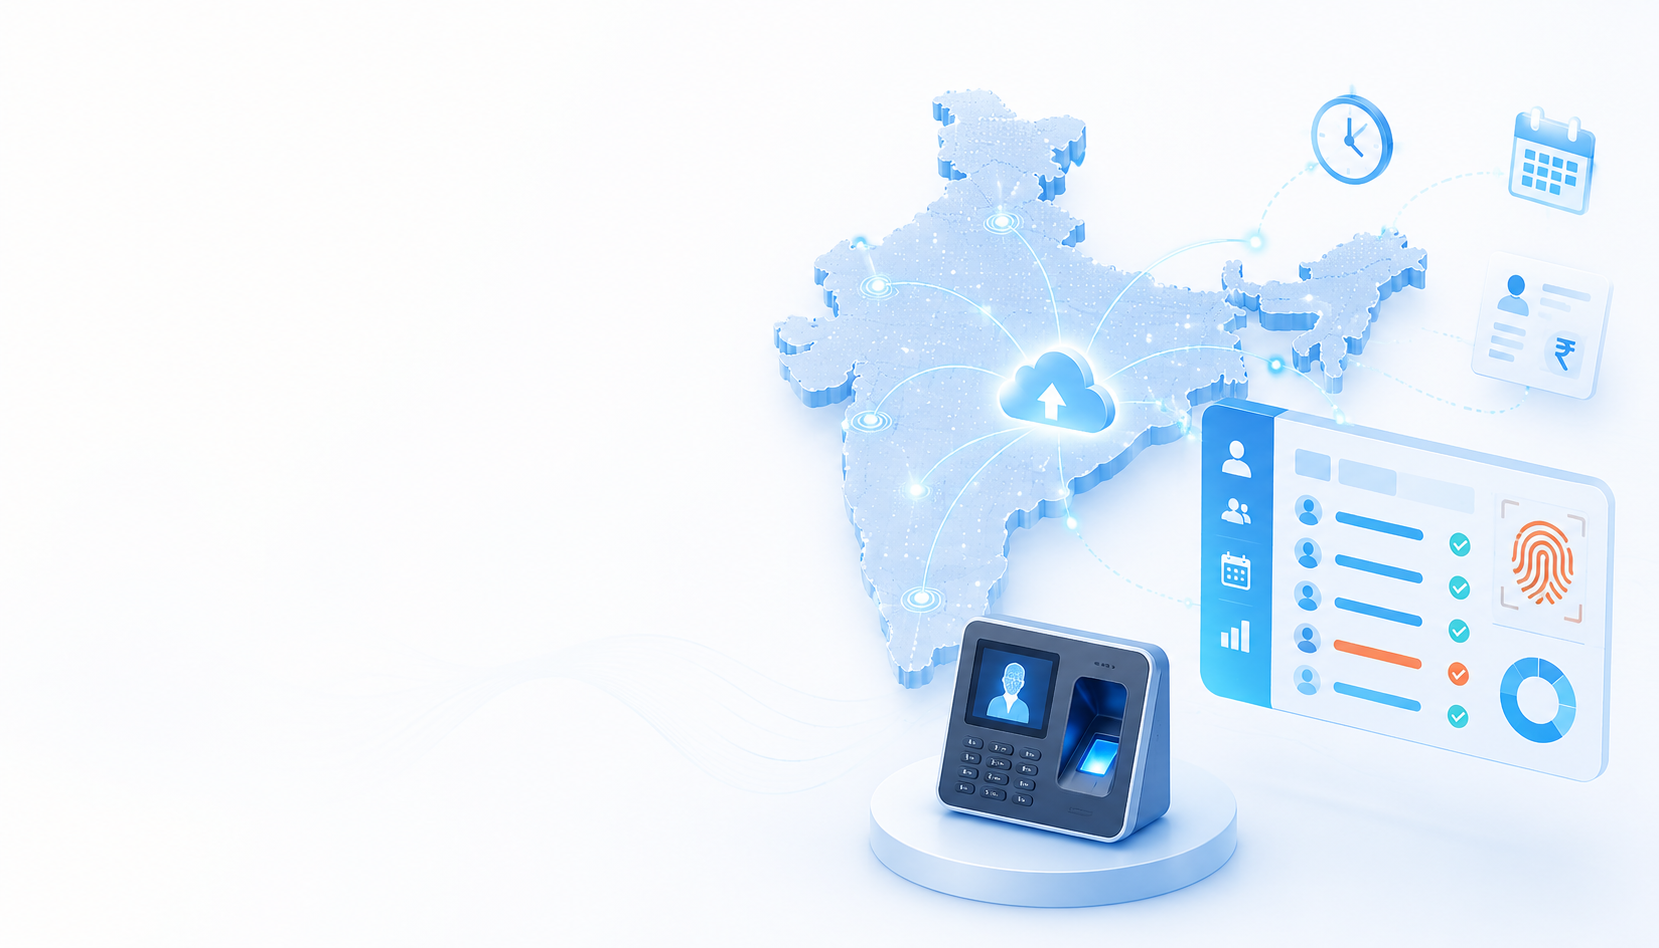
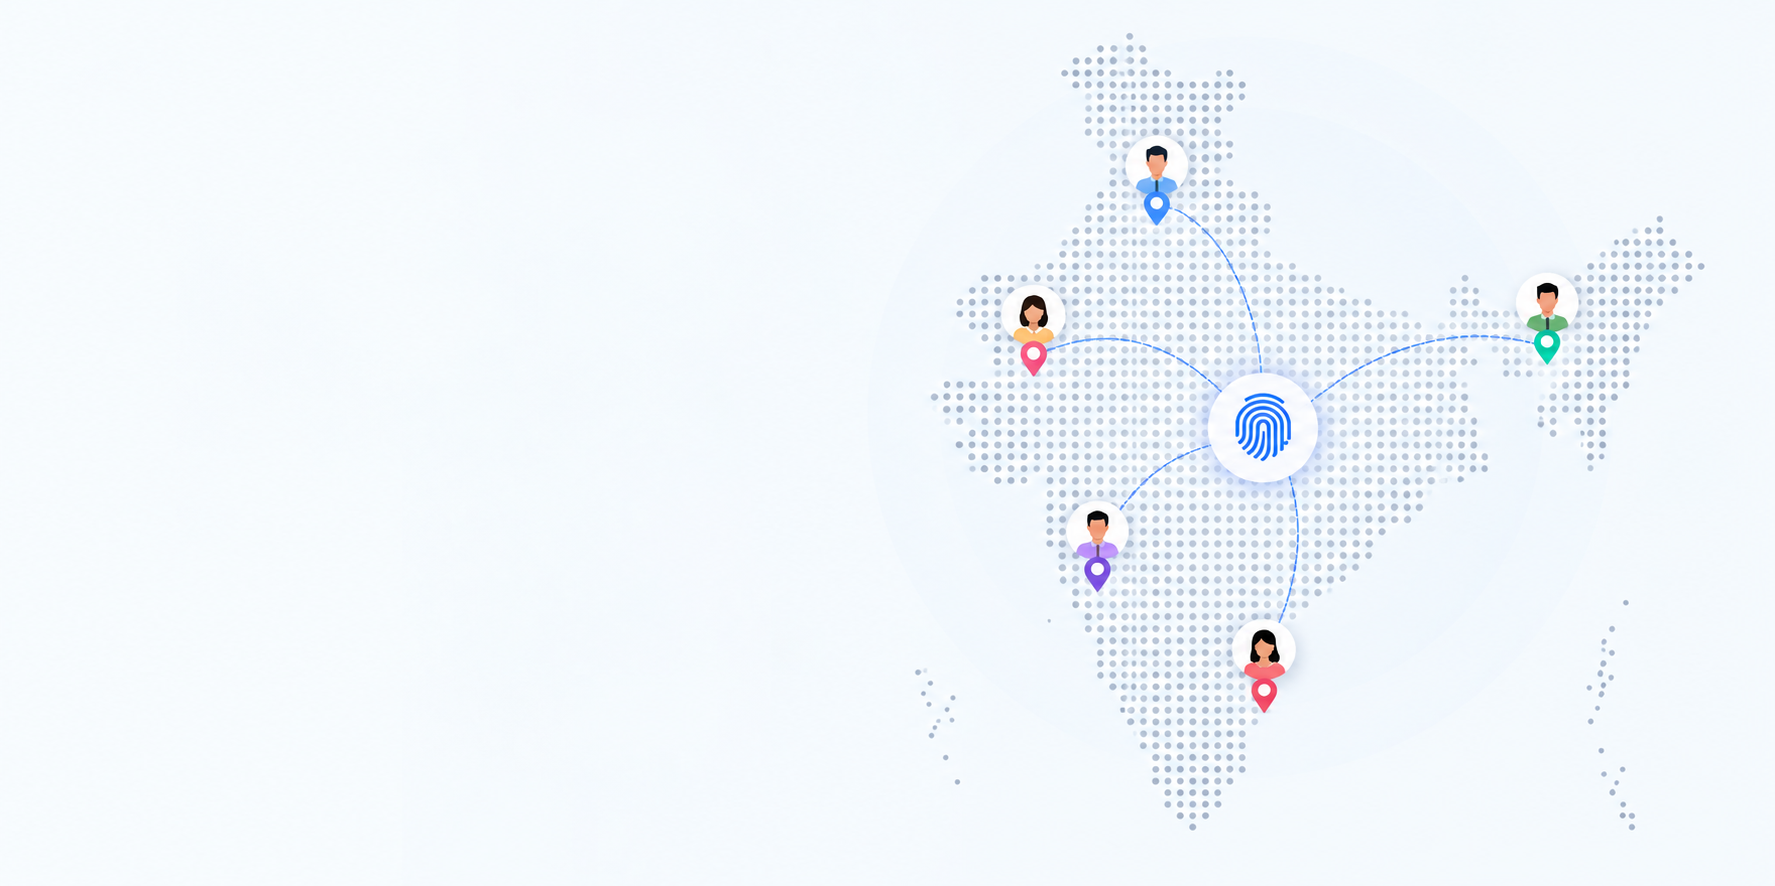
Fix Spine badge placement, footer sync, core solutions count, and cloud service images
- Move Spine Gold Partner badge above heading on spine-asset.html and spine-payroll-hrms.html
- Sync footer markup/content on customize-solutions.html (WhatsApp number, HRMS wording) to match rest of site
- Swap light logo reference to dark logo on cloud-server.html
- Update About page Core Solutions counter from 5 to 6 to match current core offerings
- Add new cloud services business images, update biometrics hero image
- Ignore *.zip backup archives

Changed region(s): [[0.4611, 0.0305, 0.9837, 0.9752], [0.7685, 0.0914, 0.8608, 0.2133]]

diff --git a/techwind/landing/customize-solutions.html b/techwind/landing/customize-solutions.html
@@ -367,7 +367,7 @@
         </section>
         </div><!--end site-content-->
 
-        <!-- Footer Start -->
+     <!-- Footer Start -->
         <footer id="site-footer" class="site-footer-fixed bg-slate-900 dark:bg-slate-800 text-gray-200 dark:text-gray-200">
             <div class="container relative">
                 <div class="grid grid-cols-12">
@@ -375,10 +375,10 @@
                         <div class="py-15 px-0">
                             <div class="grid md:grid-cols-12 grid-cols-1 gap-7.5">
                                 <div class="lg:col-span-4 md:col-span-12">
-                                    <a href="index.html" class="text-[22px] focus:outline-none">
+                                    <a class="text-[22px] focus:outline-none" href="index.html">
                                         <img src="assets/images/logo-light.png" alt="">
                                     </a>
-                                    <p class="mt-6 text-gray-300">Kanvtech brings HRMS, Payroll, Cloud Services and custom software together for growing businesses.</p>
+                                    <p class="mt-6 text-gray-300">Kanvtech brings HRMS, Spine Payroll, Cloud Services and custom software together for growing businesses.</p>
                                     <ul class="list-none footer-list mt-6">
                                         <li class="flex items-center"><i class="ri-mail-line text-primary me-2"></i> <a href="mailto:connect@kanvtech.com" class="text-gray-300 hover:text-white duration-500 ease-in-out">connect@kanvtech.com</a></li>
                                         <li class="flex items-center mt-2.5"><i class="ri-phone-line text-primary me-2"></i> <a href="tel:+917045998877" class="text-gray-300 hover:text-white duration-500 ease-in-out">+91 70459 98877</a></li>
@@ -390,8 +390,7 @@
                                         <li class="inline"><a href="https://www.instagram.com/kanvtech/" target="_blank" rel="noopener" class="size-8 inline-flex justify-center items-center text-gray-400 hover:text-white border border-gray-800 dark:border-gray-700 rounded-md hover:border-primary dark:hover:border-primary hover:bg-primary dark:hover:bg-primary"><i class="ri-instagram-line"></i></a></li>
                                         <li class="inline"><a href="https://x.com/Kanvtech" target="_blank" rel="noopener" class="size-8 inline-flex justify-center items-center text-gray-400 hover:text-white border border-gray-800 dark:border-gray-700 rounded-md hover:border-primary dark:hover:border-primary hover:bg-primary dark:hover:bg-primary"><i class="ri-twitter-x-line"></i></a></li>
                                         <li class="inline"><a href="https://www.youtube.com/@Kanvtech" target="_blank" rel="noopener" class="size-8 inline-flex justify-center items-center text-gray-400 hover:text-white border border-gray-800 dark:border-gray-700 rounded-md hover:border-primary dark:hover:border-primary hover:bg-primary dark:hover:bg-primary"><i class="ri-youtube-line"></i></a></li>
-
-                                        <li class="inline"><a href="https://wa.me/917045458585" target="_blank" rel="noopener" class="size-8 inline-flex justify-center items-center text-gray-400 hover:text-white border border-gray-800 dark:border-gray-700 rounded-md hover:border-primary dark:hover:border-primary hover:bg-primary dark:hover:bg-primary"><i class="ri-whatsapp-line"></i></a></li>
+                                        <li class="inline"><a href="https://wa.me/917045998877" target="_blank" rel="noopener" class="size-8 inline-flex justify-center items-center text-gray-400 hover:text-white border border-gray-800 dark:border-gray-700 rounded-md hover:border-primary dark:hover:border-primary hover:bg-primary dark:hover:bg-primary"><i class="ri-whatsapp-line"></i></a></li>
                                     </ul><!--end icon-->
                                 </div><!--end col-->
 
@@ -399,30 +398,30 @@
                                 <div class="lg:col-span-2 md:col-span-4">
                                     <h5 class="tracking-[1px] text-gray-100 font-semibold">Company</h5>
                                     <ul class="list-none footer-list mt-6">
-                                        <li><a href="about.html" class="text-gray-300 hover:text-gray-400 duration-500 ease-in-out"><i class="ri-arrow-right-s-line"></i> About Us</a></li>
-                                        <li class="mt-2.5"><a href="solutions-services.html" class="text-gray-300 hover:text-gray-400 duration-500 ease-in-out"><i class="ri-arrow-right-s-line"></i> Solutions</a></li>
-                                        <li class="mt-2.5"><a href="career.html" class="text-gray-300 hover:text-gray-400 duration-500 ease-in-out"><i class="ri-arrow-right-s-line"></i> Career</a></li>
-                                        <li class="mt-2.5"><a href="contact.html" class="text-gray-300 hover:text-gray-400 duration-500 ease-in-out"><i class="ri-arrow-right-s-line"></i> Contact Us</a></li>
+                                        <li><a class="text-gray-300 hover:text-gray-400 duration-500 ease-in-out" href="about.html"><i class="ri-arrow-right-s-line"></i> About Us</a></li>
+                                        <li class="mt-2.5"><a class="text-gray-300 hover:text-gray-400 duration-500 ease-in-out" href="solutions-services.html"><i class="ri-arrow-right-s-line"></i> Solutions</a></li>
+                                        <li class="mt-2.5"><a class="text-gray-300 hover:text-gray-400 duration-500 ease-in-out" href="career.html"><i class="ri-arrow-right-s-line"></i> Career</a></li>
+                                        <li class="mt-2.5"><a class="text-gray-300 hover:text-gray-400 duration-500 ease-in-out" href="contact.html"><i class="ri-arrow-right-s-line"></i> Contact Us</a></li>
                                     </ul>
                                 </div><!--end col-->
 
                                 <div class="lg:col-span-3 md:col-span-4">
-                                    <h5 class="tracking-[1px] text-gray-100 font-semibold">Software & Services</h5>
+                                    <h5 class="tracking-[1px] text-gray-100 font-semibold">Software &amp; Services</h5>
                                     <ul class="list-none footer-list mt-6">
-                                        <li><a href="spine-payroll-hrms.html" class="text-gray-300 hover:text-gray-400 duration-500 ease-in-out"><i class="ri-arrow-right-s-line"></i> Spine Payroll &amp; HRMS</a></li>
-                                        <li class="mt-2.5"><a href="spine-asset.html" class="text-gray-300 hover:text-gray-400 duration-500 ease-in-out"><i class="ri-arrow-right-s-line"></i> Spine Asset</a></li>
-                                        <li class="mt-2.5"><a href="tally-solutions.html" class="text-gray-300 hover:text-gray-400 duration-500 ease-in-out"><i class="ri-arrow-right-s-line"></i> Tally Software</a></li>
-                                        <li class="mt-2.5"><a href="biometrics.html" class="text-gray-300 hover:text-gray-400 duration-500 ease-in-out"><i class="ri-arrow-right-s-line"></i> Biometric Attendance</a></li>
+                                        <li><a class="text-gray-300 hover:text-gray-400 duration-500 ease-in-out" href="spine-payroll-hrms.html"><i class="ri-arrow-right-s-line"></i> Spine Payroll &amp; HRMS</a></li>
+                                        <li class="mt-2.5"><a class="text-gray-300 hover:text-gray-400 duration-500 ease-in-out" href="spine-asset.html"><i class="ri-arrow-right-s-line"></i> Spine Asset</a></li>
+                                        <li class="mt-2.5"><a class="text-gray-300 hover:text-gray-400 duration-500 ease-in-out" href="tally-solutions.html"><i class="ri-arrow-right-s-line"></i> Tally Software</a></li>
+                                        <li class="mt-2.5"><a class="text-gray-300 hover:text-gray-400 duration-500 ease-in-out" href="biometrics.html"><i class="ri-arrow-right-s-line"></i> Biometric Attendance</a></li>
                                     </ul>
                                 </div><!--end col-->
 
                                 <div class="lg:col-span-3 md:col-span-4">
                                     <h5 class="tracking-[1px] text-gray-100 font-semibold">Solutions</h5>
                                     <ul class="list-none footer-list mt-6">
-                                        <li><a href="app-development.html" class="text-gray-300 hover:text-gray-400 duration-500 ease-in-out"><i class="ri-arrow-right-s-line"></i> App Development</a></li>
-                                        <li class="mt-2.5"><a href="customize-solutions.html" class="text-gray-300 hover:text-gray-400 duration-500 ease-in-out"><i class="ri-arrow-right-s-line"></i> Custom Software</a></li>
-                                        <li class="mt-2.5"><a href="cloud-server.html" class="text-gray-300 hover:text-gray-400 duration-500 ease-in-out"><i class="ri-arrow-right-s-line"></i> Cloud Server</a></li>
-                                        <li class="mt-2.5"><a href="biz-analytics.html" class="text-gray-300 hover:text-gray-400 duration-500 ease-in-out"><i class="ri-arrow-right-s-line"></i> Biz Analyst</a></li>
+                                        <li><a class="text-gray-300 hover:text-gray-400 duration-500 ease-in-out" href="app-development.html"><i class="ri-arrow-right-s-line"></i> App Development</a></li>
+                                        <li class="mt-2.5"><a class="text-gray-300 hover:text-gray-400 duration-500 ease-in-out" href="customize-solutions.html"><i class="ri-arrow-right-s-line"></i> Custom Software</a></li>
+                                        <li class="mt-2.5"><a class="text-gray-300 hover:text-gray-400 duration-500 ease-in-out" href="cloud-server.html"><i class="ri-arrow-right-s-line"></i> Cloud Server</a></li>
+                                        <li class="mt-2.5"><a class="text-gray-300 hover:text-gray-400 duration-500 ease-in-out" href="biz-analytics.html"><i class="ri-arrow-right-s-line"></i> Biz Analyst</a></li>
                                     </ul>
                                 </div><!--end col-->
 
@@ -433,10 +432,10 @@
                                     <!-- TODO: replace with the real Forminit (https://forminit.com/) endpoint for this form -->
                                     <form method="POST" action="https://forminit.com/f/o2pcd8ucz9c" class="kv-ajax-form mt-4 flex flex-wrap gap-3" data-kv-form-name="Footer - Newsletter" data-kv-success-message="Thank you for subscribing.">
                                         <input type="hidden" name="_subject" value="New newsletter subscription from Kanvtech website">
-                                        <input type="email" name="fi-sender-email" required placeholder="Your email address" class="form-input flex-1 min-w-50 py-2 px-3 h-10 rounded bg-slate-800 dark:bg-slate-900 text-slate-200 border border-gray-700 focus:border-primary outline-none focus:ring-0">
-                                        <button type="submit" data-kv-submit class="py-2 px-5 inline-flex items-center justify-center font-semibold tracking-wide border align-middle duration-500 text-base text-center bg-primary hover:bg-primary-700 border-primary hover:border-primary-700 text-white rounded-md">Subscribe</button>
+                                        <input type="email" name="fi-sender-email" required="" placeholder="Your email address" class="form-input flex-1 min-w-50 py-2 px-3 h-10 rounded bg-slate-800 dark:bg-slate-900 text-slate-200 border border-gray-700 focus:border-primary outline-none focus:ring-0">
+                                        <button type="submit" data-kv-submit="" class="py-2 px-5 inline-flex items-center justify-center font-semibold tracking-wide border align-middle duration-500 text-base text-center bg-primary hover:bg-primary-700 border-primary hover:border-primary-700 text-white rounded-md">Subscribe</button>
                                     </form>
-                                    <div data-kv-message style="display:none;" class="mt-3"></div>
+                                    <div data-kv-message="" style="display:none;" class="mt-3"></div>
                                 </div><!--end col-->
                             </div><!--end grid-->
                                 </div><!--end footer-cols-wrapper-->
@@ -449,20 +448,19 @@
                 <div class="container relative text-center">
                     <div class="grid md:grid-cols-2 items-center">
                         <div class="md:text-start text-center">
-                            <p class="mb-0 text-sm text-gray-500">© <script>document.write(new Date().getFullYear())</script> Kanvtech Solutions Private Limited. All rights reserved.</p>
-                            <p class="mb-0 text-sm text-gray-300 mt-2.5">Designed & Developed by: <a href="https://www.kanhaiyasuthar.com/" target="_blank" rel="noopener" style="font-weight:bold;color:#039ECE" class="hover:text-white duration-500 ease-in-out">TechSpeeX</a></p>
+                            <p class="mb-0 text-sm text-gray-500">©<script>document.write(new Date().getFullYear())</script> Kanvtech Solutions Private Limited. All rights reserved.</p>
+                            <p class="mb-0 text-sm text-gray-300 mt-2.5">Designed &amp; Developed by: <a href="https://www.kanhaiyasuthar.com/" target="_blank" rel="noopener" style="font-weight:bold;color:#039ECE" class="hover:text-white duration-500 ease-in-out">TechSpeeX</a></p>
                         </div>
 
                         <ul class="list-none md:text-end text-center mt-6 md:mt-0 text-sm">
-                            <li class="inline"><a href="page-terms.html" class="text-gray-500 hover:text-white duration-500 ease-in-out">Terms of Service</a></li>
-                            <li class="inline ms-4"><a href="page-privacy.html" class="text-gray-500 hover:text-white duration-500 ease-in-out">Privacy Policy</a></li>
-                            <li class="inline ms-4"><a href="disclaimer.html" class="text-gray-500 hover:text-white duration-500 ease-in-out">Disclaimer</a></li>
+                            <li class="inline"><a class="text-gray-500 hover:text-white duration-500 ease-in-out" href="page-terms.html">Terms of Service</a></li>
+                            <li class="inline ms-4"><a class="text-gray-500 hover:text-white duration-500 ease-in-out" href="page-privacy.html">Privacy Policy</a></li>
+                            <li class="inline ms-4"><a class="text-gray-500 hover:text-white duration-500 ease-in-out" href="disclaimer.html">Disclaimer</a></li>
                         </ul>
                     </div><!--end grid-->
                 </div><!--end container-->
             </div>
         </footer><!--end footer-->
-        <!-- Footer End -->
 
         <script src="assets/libs/tobii/js/tobii.min.js"></script>
         <script src="assets/js/plugins.init.js"></script>

diff --git a/techwind/landing/spine-asset.html b/techwind/landing/spine-asset.html
@@ -95,9 +95,9 @@
             <div class="container relative">
                 <div class="grid grid-cols-1 pb-8 text-center">
                     <div class="hidden md:flex justify-center mb-4">
-                        <div class="size-20 rounded-full bg-primary/20 border border-primary/40 flex items-center justify-center text-primary text-4xl"><i class="ri-safe-2-line"></i></div>
+                        <img src="assets/images/digital/spine-gold-partner.png" alt="Spine Gold Partner" class="w-24 h-auto mb-4">
                     </div>
-                    <img src="assets/images/digital/spine-gold-partner.png" alt="Spine Gold Partner" class="w-24 h-auto mb-4">
+                    
                     <h1 class="mb-6 md:text-4xl text-3xl md:leading-normal leading-normal font-medium text-white">Spine Asset — <span class="text-primary">Fixed Asset Management</span> Software</h1>
                     <p class="text-slate-300 text-lg max-w-2xl mx-auto">From acquisition to disposal, track every asset your business owns with precision and full statutory compliance, without the manual guesswork. Implemented and configured by Kanvtech, an authorised Spine Gold Partner.</p>
                     <div class="mt-8 flex flex-wrap items-center justify-center gap-3">

diff --git a/techwind/landing/spine-payroll-hrms.html b/techwind/landing/spine-payroll-hrms.html
@@ -93,8 +93,10 @@
         <section class="relative table w-full py-36 lg:py-44 bg-[url('../../assets/images/app/bg.png')] bg-no-repeat bg-center bg-cover">
             <div class="absolute inset-0 bg-slate-900 opacity-80"></div>
             <div class="container relative">
+                <div class="hidden md:flex justify-center mb-4">
+                        <img src="assets/images/digital/spine-gold-partner.png" alt="Spine Gold Partner" class="w-24 h-auto mb-4">
+                    </div>
                 <div class="grid grid-cols-1 pb-8 text-center">
-                    <img src="assets/images/digital/spine-gold-partner.png" alt="Spine Gold Partner" class="w-24 h-auto mb-4">
                     <h1 class="mb-6 md:text-4xl text-3xl md:leading-normal leading-normal font-medium text-white">Spine Payroll &amp; <span class="text-primary">HRMS</span></h1>
                     <p class="text-slate-300 text-lg max-w-2xl mx-auto">Automate payroll, attendance, leave and the complete employee lifecycle on Spine, one of India's most widely used HRMS platforms. Implemented and configured by Kanvtech, an authorised Spine Gold Partner.</p>
                     <div class="mt-8 flex flex-wrap items-center justify-center gap-3">

diff --git a/techwind/landing/cloud-server.html b/techwind/landing/cloud-server.html
@@ -40,9 +40,9 @@
                 <a class="logo" href="index.html">
                     <span class="inline-block dark:hidden">
                         <img src="assets/images/logo-dark.png" class="l-dark" height="24" alt="">
-                        <img src="assets/images/logo-light.png" class="l-light" height="24" alt="">
+                        <img src="assets/images/logo-dark.png" class="l-light" height="24" alt="">
                     </span>
-                    <img src="assets/images/logo-light.png" height="24" class="hidden dark:inline-block" alt="">
+                    <img src="assets/images/logo-dark.png" height="24" class="hidden dark:inline-block" alt="">
                 </a>
 
                 <div class="menu-extras">

diff --git a/techwind/landing/about.html b/techwind/landing/about.html
@@ -428,7 +428,7 @@
                     </div><!--end counter box-->
 
                     <div class="counter-box flex items-center justify-center" data-aos="fade-up">
-                        <h2 class="text-4xl font-bold text-white"><span class="counter-value" data-target="5">0</span></h2>
+                        <h2 class="text-4xl font-bold text-white"><span class="counter-value" data-target="6">0</span></h2>
                         <h5 class="counter-head text-xs font-semibold text-white/70 ms-2">Core <br> Solutions</h5>
                     </div><!--end counter box-->
 
